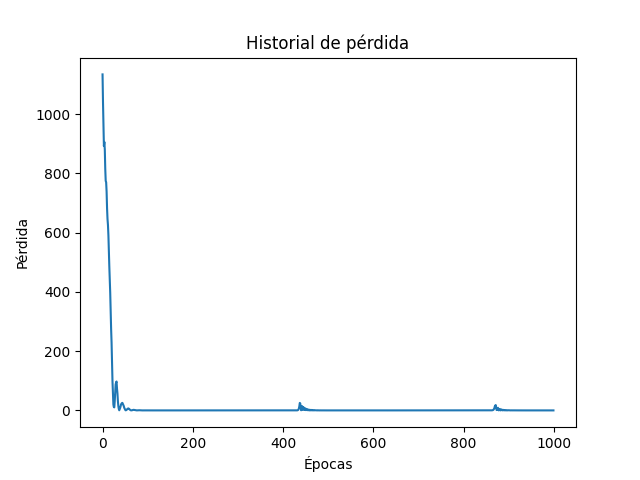
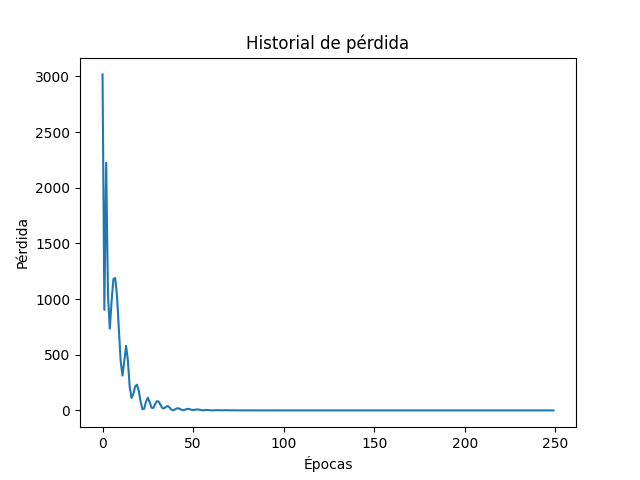
100% precision

diff --git a/neurona-simple/neurona-simple.py b/neurona-simple/neurona-simple.py
@@ -38,7 +38,7 @@ os.makedirs("salidas", exist_ok=True)
 
 # Datos de ejemplo: temperatura en Celsius y su equivalente en Fahrenheit
 celsius = np.array([-40, -10, 0, 8, 15, 22, 38], dtype=float)
-fahrenheit = np.array([-40, 14, 32, 46, 59, 72, 100], dtype=float)
+fahrenheit = np.array([-40, 14, 32, 46.4, 59, 71.6, 100.4], dtype=float)
 
 # =============================
 # FUNCIÓN: CÁLCULO DE HASH DE DATOS
@@ -96,10 +96,10 @@ if entrenar:
     modelo = tf.keras.Sequential([capa_oculta_1, capa_oculta_2, salida])
     
     # Compila el modelo con el optimizador Adam y el error cuadrático medio
-    modelo.compile(optimizer=tf.keras.optimizers.Adam(0.1), loss='mean_squared_error')
+    modelo.compile(optimizer=tf.keras.optimizers.Adam(0.2), loss='mean_squared_error')
     
     # Entrena el modelo con los datos de ejemplo durante 1000 épocas
-    historial = modelo.fit(celsius, fahrenheit, epochs=1000, verbose=False)
+    historial = modelo.fit(celsius, fahrenheit, epochs=250, verbose=False)
     
     # Guarda el modelo entrenado
     modelo.save(modelo_path)
